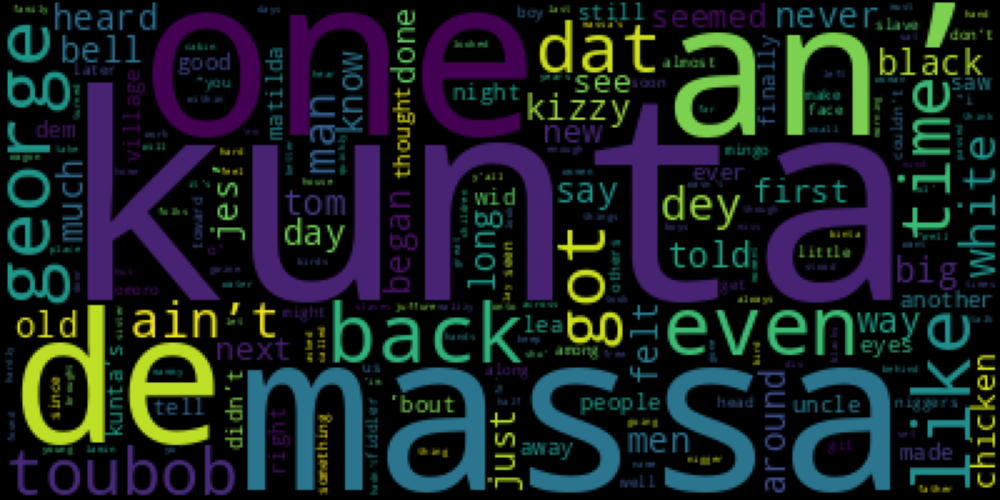
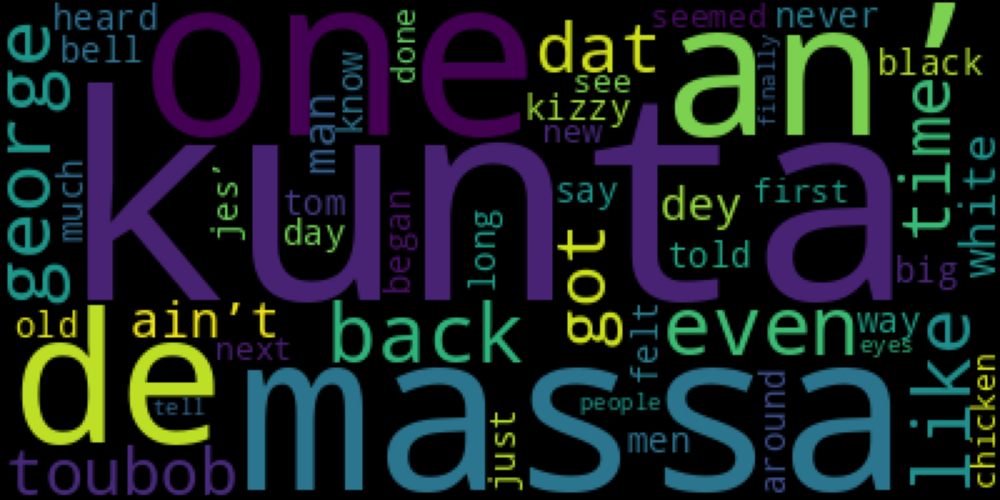
word_cloud, word_scrub updates

diff --git a/word_cloud.py b/word_cloud.py
@@ -1,31 +1,11 @@
 import matplotlib.pyplot as plt
 from wordcloud import WordCloud
 from word_scrub import strip_punctuation, strip_stopwords, strip_other, strip_digits
-
-
-def create_dict(words):
-    counts = dict()
-    for word in words:
-        word = word.lower()
-        counts[word] = counts.get(word, 0) + 1
-    return counts
-
-
-def del_min_vals(dict):
-    delete = []
-    for k, v in dict.items():
-        if v < 50:
-            delete.append(k)
-    for i in delete:
-        del dict[i]
-    return dict
-
-
-def plot_cloud(wordcloud):
-    plt.figure()
-    plt.imshow(wordcloud)
-    plt.axis("off")
-    plt.show()
+import matplotlib.pyplot as plt
+from wordcloud import WordCloud
+import numpy as np
+import time
+from collections import Counter
 
 
 with open('roots.txt', encoding="utf8") as f:
@@ -36,12 +16,16 @@ with open('roots.txt', encoding="utf8") as f:
         roots_txt.append(line.strip())
     # get list of lower case words from list of sentences
     words = [lo.lower() for word in roots_txt for lo in word.split()]
-    # strip away punctuation from each word in list
+    
+    # Clean words
     words = [strip_punctuation(word) for word in words]
-    # deep clean list, no digits and other
-    words = strip_other(strip_digits(words))
-    counts = create_dict(strip_stopwords(words))
-    final_count = del_min_vals(counts)
+    words = strip_digits(words)
+    words = strip_other(words)
+    words = strip_stopwords(words)
+
+    # Create word count dictionary
+    word_counts = Counter(words)
+    final_count = dict(sorted(word_counts.items(), key=lambda item: item[1], reverse=True)[:50])
 
     # Generate word cloud
     wordcloud = WordCloud(max_words=300, random_state=1, background_color='#000000', collocations=False)

diff --git a/word_scrub.py b/word_scrub.py
@@ -3,30 +3,15 @@
 
 def strip_punctuation(word):
     punctuation_chars = ["'", '"', ",", ".", "!", ":", ";", '#', '@', '(', ')', "'"]
-    for i in punctuation_chars:
-        word = word.replace(i, "")
-    return word
+    return ''.join([c for c in word if c not in punctuation_chars])
 
-
-def strip_stopwords(bk_word_lst):
+def strip_stopwords(word_list):
     with open('stop_words.txt', 'r') as sw:
-        stopwords = [w.strip() for w in sw]
-        for a in stopwords:
-            for w in bk_word_lst:
-                if w == a:
-                    bk_word_lst.remove(w)
-        return bk_word_lst
-
+        stopwords = {w.strip() for w in sw}
+        return [word for word in word_list if word not in stopwords]
 
 def strip_digits(word_list):
-    for ele in word_list:
-        if ele.isdigit():
-            word_list.remove(ele)
-    return word_list
-
+    return [word for word in word_list if not word.isdigit()]
 
 def strip_other(word_list):
-    for e in word_list:
-        if '{' in e or ']' in e:
-            word_list.remove(e)
-    return word_list
+    return [word for word in word_list if not ('{' in word or ']' in word)]
